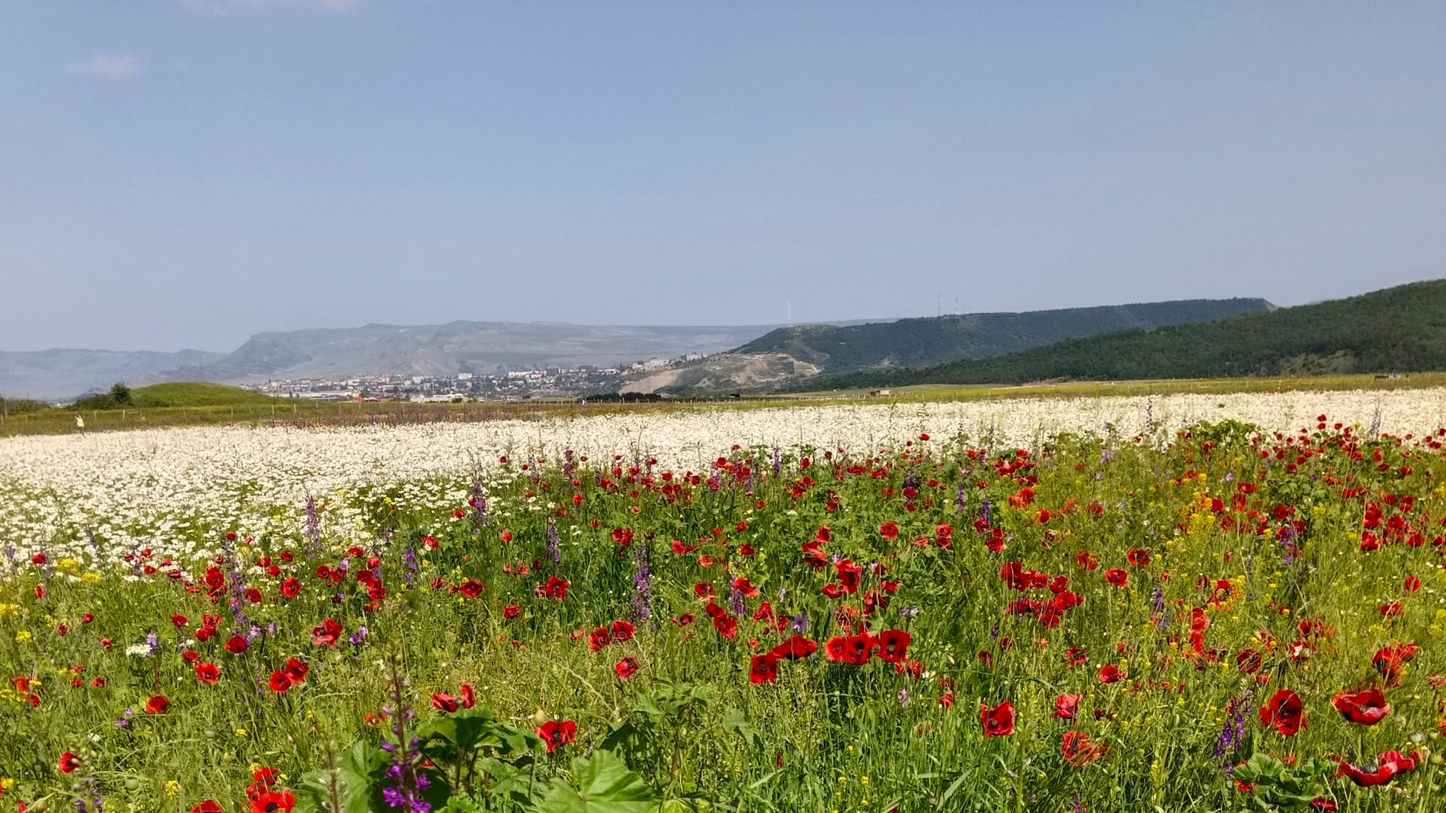
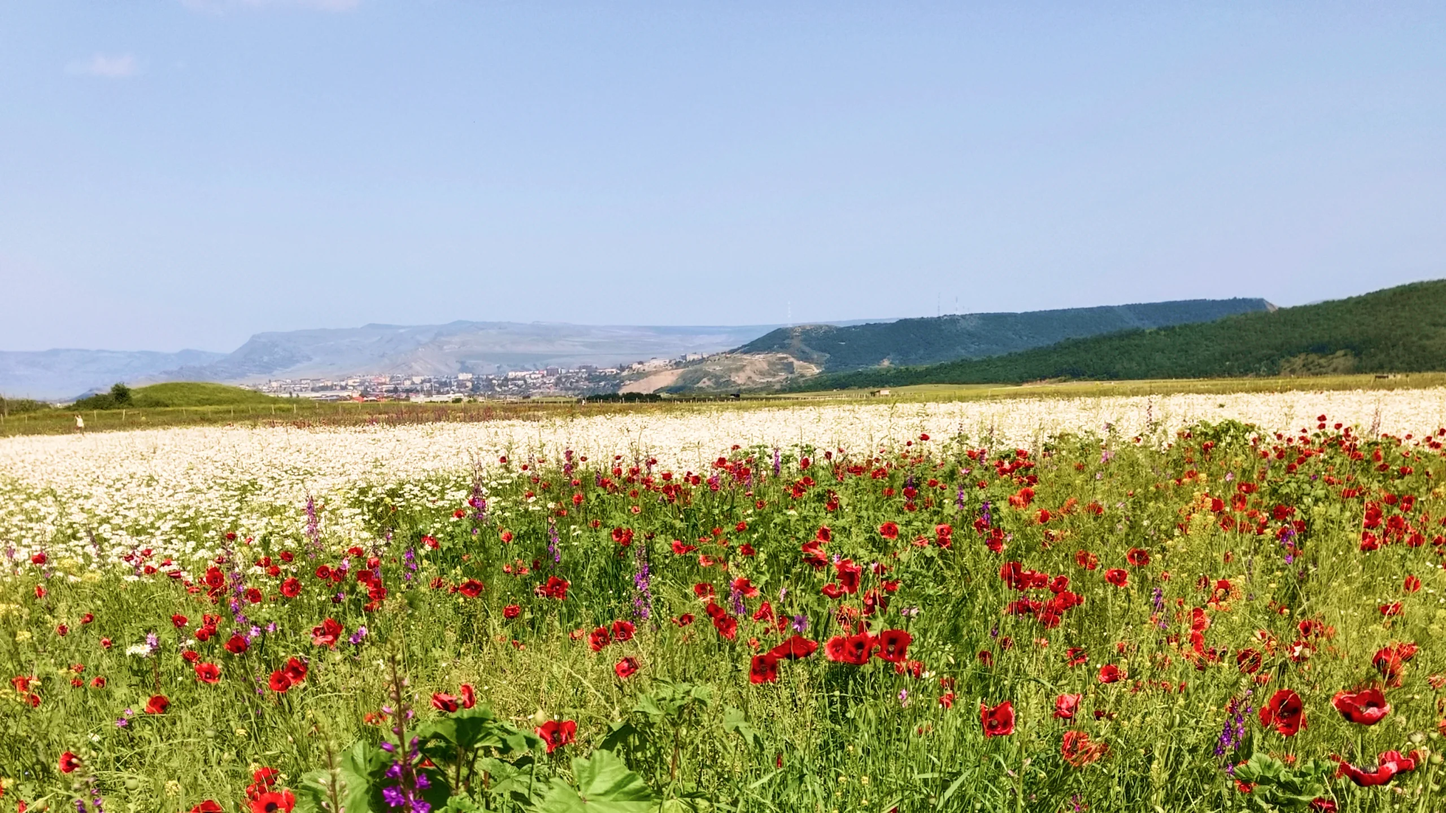
ss

diff --git a/articles.html b/articles.html
@@ -12,7 +12,7 @@
     <link rel="stylesheet" href="./style.css" />
   </head>
 
-  <body>
+  <body class="mainArticlesBG">
     <div id="header-placeholder"></div>
 
     <main>
@@ -65,9 +65,7 @@
                 <p class="article-excerpt">
                   Дербент. Эхо веков под ногами путешественников.
                 </p>
-                <a href="./articles/kaspiy.html" class="article-link"
-                  >Читать →</a
-                >
+                <a href="./kaspiy.html" class="article-link">Читать →</a>
               </div>
             </div>
 
@@ -161,6 +159,14 @@
 
       <div id="ranStripsPlaceholder" class="ranStrips-section"></div>
 
+      <div class="wrapper">
+        <nav class="breadcrumb" aria-label="Breadcrumb">
+          <ol id="breadcrumb-list">
+            <!-- JavaScript will fill this automatically -->
+          </ol>
+        </nav>
+      </div>
+
       <div class="scrollUp">
         <a href="#" class="btn">Перемотка вверх</a>
       </div>
@@ -168,32 +174,11 @@
 
     <div id="footer-placeholder"></div>
 
-    <dialog id="enrolOpinionDialog1" class="opinion-dialog">
-      <div class="dialogOpinion-content">
-        <button class="closeDialog" id="closeDialog1">✕</button>
-        <h2>
-          На Кольском полуострове и в осеннем походе я была впервые. Полюбить и
-          проникнуться Севером удалось благодаря Паше и Ане. Организация всех
-          этапов похода уровня профи. Полное сопровождение и вовлеченность от
-          момента планирования личных сборов, консультации по снаряжению до
-          финального ужина путешествия.
-        </h2>
-      </div>
-    </dialog>
-
-    <dialog id="enrolOpinionDialog2" class="opinion-dialog">
-      <div class="dialogOpinion-content">
-        <button class="closeDialog" id="closeDialog">✕</button>
-        <h2>
-          Полный текст второго отзыва. Отличный поход, прекрасные виды, опытные
-          проводники.
-        </h2>
-      </div>
-    </dialog>
-
     <script src="./js/script.js" defer></script>
     <script src="./js/header.js" defer></script>
     <script src="./js/footer-loader.js" defer></script>
     <script src="./js/ranStrips-loader.js" defer></script>
+    <script src="./js/scrollUp.js" defer></script>
+    <script src="./js/breadcrumbs.js" defer></script>
   </body>
 </html>

diff --git a/styles/articles/mainArticlesItems.css b/styles/articles/mainArticlesItems.css
@@ -1,7 +1,10 @@
 /* ========== ARTICLES SECTION - BENTO GRID ========== */
 
+.mainArticlesBG {
+  background-color: var(--backgroundDarkColor);
+}
 .articles-section {
-  background: linear-gradient(135deg, #0f0f1a 0%, #1a1a2e 100%);
+  background: var(--backgroundDarkColor);
   padding-top: 0;
   padding-bottom: 0;
   margin-top: 0;
@@ -9,6 +12,10 @@
   border-radius: 2rem 2rem 0rem 0rem;
   margin-top: -10rem;
   z-index: 900;
+}
+
+.articles-section h2 {
+  color: white;
 }
 
 .articles-header {
@@ -76,7 +83,7 @@
   left: 0;
   right: 0;
   background: linear-gradient(to top, rgba(0, 0, 0, 0.9), transparent);
-  padding: 1.5rem;
+  padding: 1.5rem 1.5rem 3rem 1.5rem;
   color: white;
   transform: translateY(20px);
   transition: transform 0.3s ease;

diff --git a/styles/root.css b/styles/root.css
@@ -20,6 +20,7 @@
   --ff-base: "Karla", sans-serif;
 
   --backgroundColor: rgb(43, 57, 82);
+  --backgroundDarkColor: rgb(12, 18, 29);
 }
 
 .wrapper {
